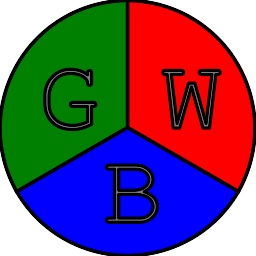
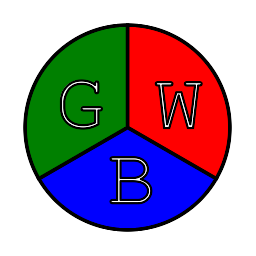
* 發布第0.4版；         * 實現後退、前進、刷新、主頁功能；         * 修復搜索欄未更新URI的缺陷；         * 修復在搜索欄輸入URI後在新標籤頁打開URI的缺陷；         * 界面微調；         * 生成logo的算法微調；         * logo微調。

diff --git a/src/gwb.c b/src/gwb.c
@@ -10,34 +10,51 @@ GtkBuilder *builder=NULL;
 GtkBuilder *load_ui(void)
 {
     GtkBuilder *builder=gtk_builder_new();
-    return (gtk_builder_add_from_file(builder, STD_UI_FILE, NULL))
-        || gtk_builder_add_from_file(builder, "../res/gwb.ui", NULL)
+    return (gtk_builder_add_from_file(builder, "../res/gwb.ui", NULL)
+        || gtk_builder_add_from_file(builder, STD_UI_FILE, NULL))
         ? builder : NULL;
 }
 
 void setup_main_win(void)
 {
-    GObject *win, *notebook, *search_entry, *add_button;
+    GObject *win, *notebook, *add_button, *search_entry, *back_button,
+            *forward_button, *reload_button, *home_button;
     win=gtk_builder_get_object(builder, "main_win");
     notebook=gtk_builder_get_object(builder, "notebook");
-    add_button=gtk_builder_get_object(builder, "add_tab_page");
+    add_button=gtk_builder_get_object(builder, "add_tab_page_button");
     search_entry=gtk_builder_get_object(builder, "search_entry");
+    back_button=gtk_builder_get_object(builder, "go_back_button");
+    forward_button=gtk_builder_get_object(builder, "go_forward_button");
+    reload_button=gtk_builder_get_object(builder, "reload_button");
+    home_button=gtk_builder_get_object(builder, "go_home_button");
     gtk_window_set_default_size(GTK_WINDOW(win), MAIN_WIN_WIDTH, MAIN_WIN_HEIGHT);
     gtk_entry_set_width_chars(GTK_ENTRY(search_entry), SEARCH_ENTRY_WIDTH_CHARS);
     g_signal_connect_swapped(win, "destroy", G_CALLBACK(gtk_main_quit), NULL);
     g_signal_connect(notebook, "switch-page", G_CALLBACK(notebook_switch_page), win);
     g_signal_connect(add_button, "clicked", G_CALLBACK(new_tab_page), NULL);
-    g_signal_connect(search_entry, "activate", G_CALLBACK(search), NULL);
+    g_signal_connect(search_entry, "activate", G_CALLBACK(search), notebook);
+    g_signal_connect(back_button, "clicked", G_CALLBACK(go_back), notebook);
+    g_signal_connect(forward_button, "clicked", G_CALLBACK(go_forward), notebook);
+    g_signal_connect(reload_button, "clicked", G_CALLBACK(reload), notebook);
+    g_signal_connect(home_button, "clicked", G_CALLBACK(go_home), notebook);
     gtk_widget_show_all(GTK_WIDGET(win));
 }
 
 void notebook_switch_page(GtkNotebook *notebook, GtkWidget *page, guint page_n, GtkWindow *win)
 {
-    GtkWidget *child, *tab_label, *label;
-    child=gtk_notebook_get_nth_page(notebook, page_n);
-    tab_label=gtk_notebook_get_tab_label(notebook, child);
-    label = (GtkWidget *)g_object_get_data(G_OBJECT(tab_label), "tab_label");
-    gtk_window_set_title(win, gtk_label_get_text(GTK_LABEL(label)));
+    GtkWidget *view=gtk_notebook_get_nth_page(notebook, page_n);
+    const gchar *s=webkit_web_view_get_title(WEBKIT_WEB_VIEW(view));
+    gtk_window_set_title(GTK_WINDOW(win), s ? s : "未知標題");
+    update_search_entry(page_n);
+}
+
+void update_search_entry(guint page_n)
+{
+    GObject *notebook=gtk_builder_get_object(builder, "notebook");
+    GObject *search_entry=gtk_builder_get_object(builder, "search_entry");
+    GtkWidget *view=gtk_notebook_get_nth_page(GTK_NOTEBOOK(notebook), page_n);
+    const gchar *text=webkit_web_view_get_uri(WEBKIT_WEB_VIEW(view));
+    gtk_entry_set_text(GTK_ENTRY(search_entry), text ? text : "");
 }
 
 void new_tab_page(GtkButton *button, gpointer data)
@@ -45,11 +62,36 @@ void new_tab_page(GtkButton *button, gpointer data)
     create_client(DEFAULT_URI, NULL, true);
 }
 
-void search(GtkEntry* entry, gpointer data)
+void search(GtkEntry* entry, GtkNotebook* notebook)
 {
     const char *s=gtk_entry_buffer_get_text(gtk_entry_get_buffer(entry));
-    create_client(s, NULL, true);
-    gtk_entry_set_text(entry, "");
+    load_uri(WEBKIT_WEB_VIEW(WEBKIT_WEB_VIEW(get_current_page(notebook))), s);
+}
+
+void go_back(GtkButton *button, GtkNotebook* notebook)
+{
+    webkit_web_view_go_back(WEBKIT_WEB_VIEW(get_current_page(notebook)));
+}
+
+void go_forward(GtkButton *button, GtkNotebook* notebook)
+{
+    webkit_web_view_go_forward(WEBKIT_WEB_VIEW(get_current_page(notebook)));
+}
+
+void reload(GtkButton *button, GtkNotebook* notebook)
+{
+    webkit_web_view_reload(WEBKIT_WEB_VIEW(get_current_page(notebook)));
+}
+
+void go_home(GtkButton *button, GtkNotebook* notebook)
+{
+    load_uri(WEBKIT_WEB_VIEW(get_current_page(notebook)), HOME_PAGE);
+}
+
+GtkWidget* get_current_page(GtkNotebook* notebook)
+{
+    gint n=gtk_notebook_get_current_page(GTK_NOTEBOOK(notebook));
+    return gtk_notebook_get_nth_page(notebook, n);
 }
 
 WebKitWebView *request_new_client(WebKitWebView *view, WebKitNavigationAction *act, gpointer data)
@@ -61,23 +103,16 @@ WebKitWebView *create_client(const char *uri, WebKitWebView *related_view, bool 
 {
     GtkWidget *label, *close_button, *view, *tab_label;
     GObject *win, *notebook;
+
     win=gtk_builder_get_object(builder, "main_win");
     notebook=gtk_builder_get_object(builder, "notebook");
-
-    tab_label=gtk_box_new(GTK_ORIENTATION_HORIZONTAL, 10);
-    label=gtk_label_new("新標籤頁");
-    close_button=gtk_button_new_with_label("×");
-    gtk_button_set_relief(GTK_BUTTON(close_button), GTK_RELIEF_NONE);
-    gtk_box_pack_start(GTK_BOX(tab_label), label, TRUE, TRUE, 0);
-    gtk_box_pack_start(GTK_BOX(tab_label), close_button, TRUE, TRUE, 0);
-    g_object_set_data(G_OBJECT(tab_label), "tab_label", label);
-    gtk_widget_show_all(tab_label);
+    setup_tab_label(&label, &close_button, &tab_label);
 
     if(related_view)
         view=webkit_web_view_new_with_related_view(related_view);
     else
         view=webkit_web_view_new();
-    g_signal_connect(view, "create", G_CALLBACK(request_new_client), (gpointer)builder);
+    g_signal_connect(view, "create", G_CALLBACK(request_new_client), NULL);
     g_signal_connect(view, "notify::title", G_CALLBACK(update_title), label);
     g_signal_connect(close_button, "clicked", G_CALLBACK(remove_tab_page), view);
     if(uri)
@@ -96,6 +131,20 @@ WebKitWebView *create_client(const char *uri, WebKitWebView *related_view, bool 
     return WEBKIT_WEB_VIEW(view);
 }
 
+void setup_tab_label(GtkWidget **label, GtkWidget **close_button, GtkWidget **tab_label)
+{
+    *tab_label=gtk_box_new(GTK_ORIENTATION_HORIZONTAL, 0);
+    *label=gtk_label_new("新標籤頁");
+    gtk_label_set_width_chars(GTK_LABEL(*label), TAB_LABEL_WIDTH_CHARS);
+    gtk_label_set_ellipsize(GTK_LABEL(*label), PANGO_ELLIPSIZE_MIDDLE);
+    *close_button=gtk_button_new_from_icon_name("window-close", GTK_ICON_SIZE_BUTTON);
+    gtk_style_context_add_class(gtk_widget_get_style_context(*close_button), "circular");
+    gtk_button_set_relief(GTK_BUTTON(*close_button), GTK_RELIEF_NONE);
+    gtk_box_pack_start(GTK_BOX(*tab_label), *label, TRUE, TRUE, 0);
+    gtk_box_pack_start(GTK_BOX(*tab_label), *close_button, TRUE, TRUE, 0);
+    gtk_widget_show_all(*tab_label);
+}
+
 void remove_tab_page(GtkButton *button, GtkWidget *page)
 {
     GtkNotebook *notebook=GTK_NOTEBOOK(gtk_builder_get_object(builder, "notebook"));
@@ -106,9 +155,10 @@ void remove_tab_page(GtkButton *button, GtkWidget *page)
 void update_title(WebKitWebView *view, GParamSpec *ps, GtkWidget *label)
 {
     GObject *win=gtk_builder_get_object(builder, "main_win");
+    GObject *notebook=gtk_builder_get_object(builder, "notebook");
     gtk_window_set_title(GTK_WINDOW(win), webkit_web_view_get_title(view));
     gtk_label_set_label(GTK_LABEL(label), webkit_web_view_get_title(view));
-
+    update_search_entry(gtk_notebook_page_num(GTK_NOTEBOOK(notebook), GTK_WIDGET(view)));
 }
 
 void load_uri(WebKitWebView *view, const char *uri)

diff --git a/src/gwb.h b/src/gwb.h
@@ -15,10 +15,17 @@
 GtkBuilder *load_ui(void);
 void setup_main_win(void);
 void notebook_switch_page(GtkNotebook *notebook, GtkWidget *page, guint page_n, GtkWindow *win);
+void update_search_entry(guint page_n);
 void new_tab_page(GtkButton *button, gpointer data);
-void search(GtkEntry* entry, gpointer data);
+void search(GtkEntry* entry, GtkNotebook* notebook);
+void go_back(GtkButton *button, GtkNotebook* notebook);
+void go_forward(GtkButton *button, GtkNotebook* notebook);
+void reload(GtkButton *button, GtkNotebook* notebook);
+void go_home(GtkButton *button, GtkNotebook* notebook);
+GtkWidget* get_current_page(GtkNotebook* notebook);
 WebKitWebView *request_new_client(WebKitWebView *view, WebKitNavigationAction *act, gpointer data);
 WebKitWebView *create_client(const char *uri, WebKitWebView *related_view, bool show);
+void setup_tab_label(GtkWidget **label, GtkWidget **close_button, GtkWidget **tab_label);
 void remove_tab_page(GtkButton *button, GtkWidget *page);
 void update_title(WebKitWebView *web_view, GParamSpec *ps, GtkWidget *label);
 void load_uri(WebKitWebView *web_view, const char *uri);

diff --git a/src/config.h b/src/config.h
@@ -18,7 +18,8 @@
 #define SHOW_HOME_PAGE 1 // 是否顯示主頁，0表示不顯示，非0整數表示顯示
 #define DEFAULT_URI (SHOW_HOME_PAGE ? HOME_PAGE : "about:blank") // 默認URI
 #define FOCUS_NEW_TAB_PAGE 1 // 是否聚焦新標籤頁，0表示不聚焦，非0整數表示聚焦
-#define SEARCH_ENTRY_WIDTH_CHARS 20 // 以英文字符數量計算的搜索框寬度
+#define SEARCH_ENTRY_WIDTH_CHARS 30 // 以英文字符數量計算的搜索框寬度
+#define TAB_LABEL_WIDTH_CHARS 10 // 以英文字符數量計算的標籤頁的標籤寬度
 #define MAIN_WIN_WIDTH 1024 // gwb主窗口的寬度
 #define MAIN_WIN_HEIGHT 768 // gwb主窗口的高度
 
